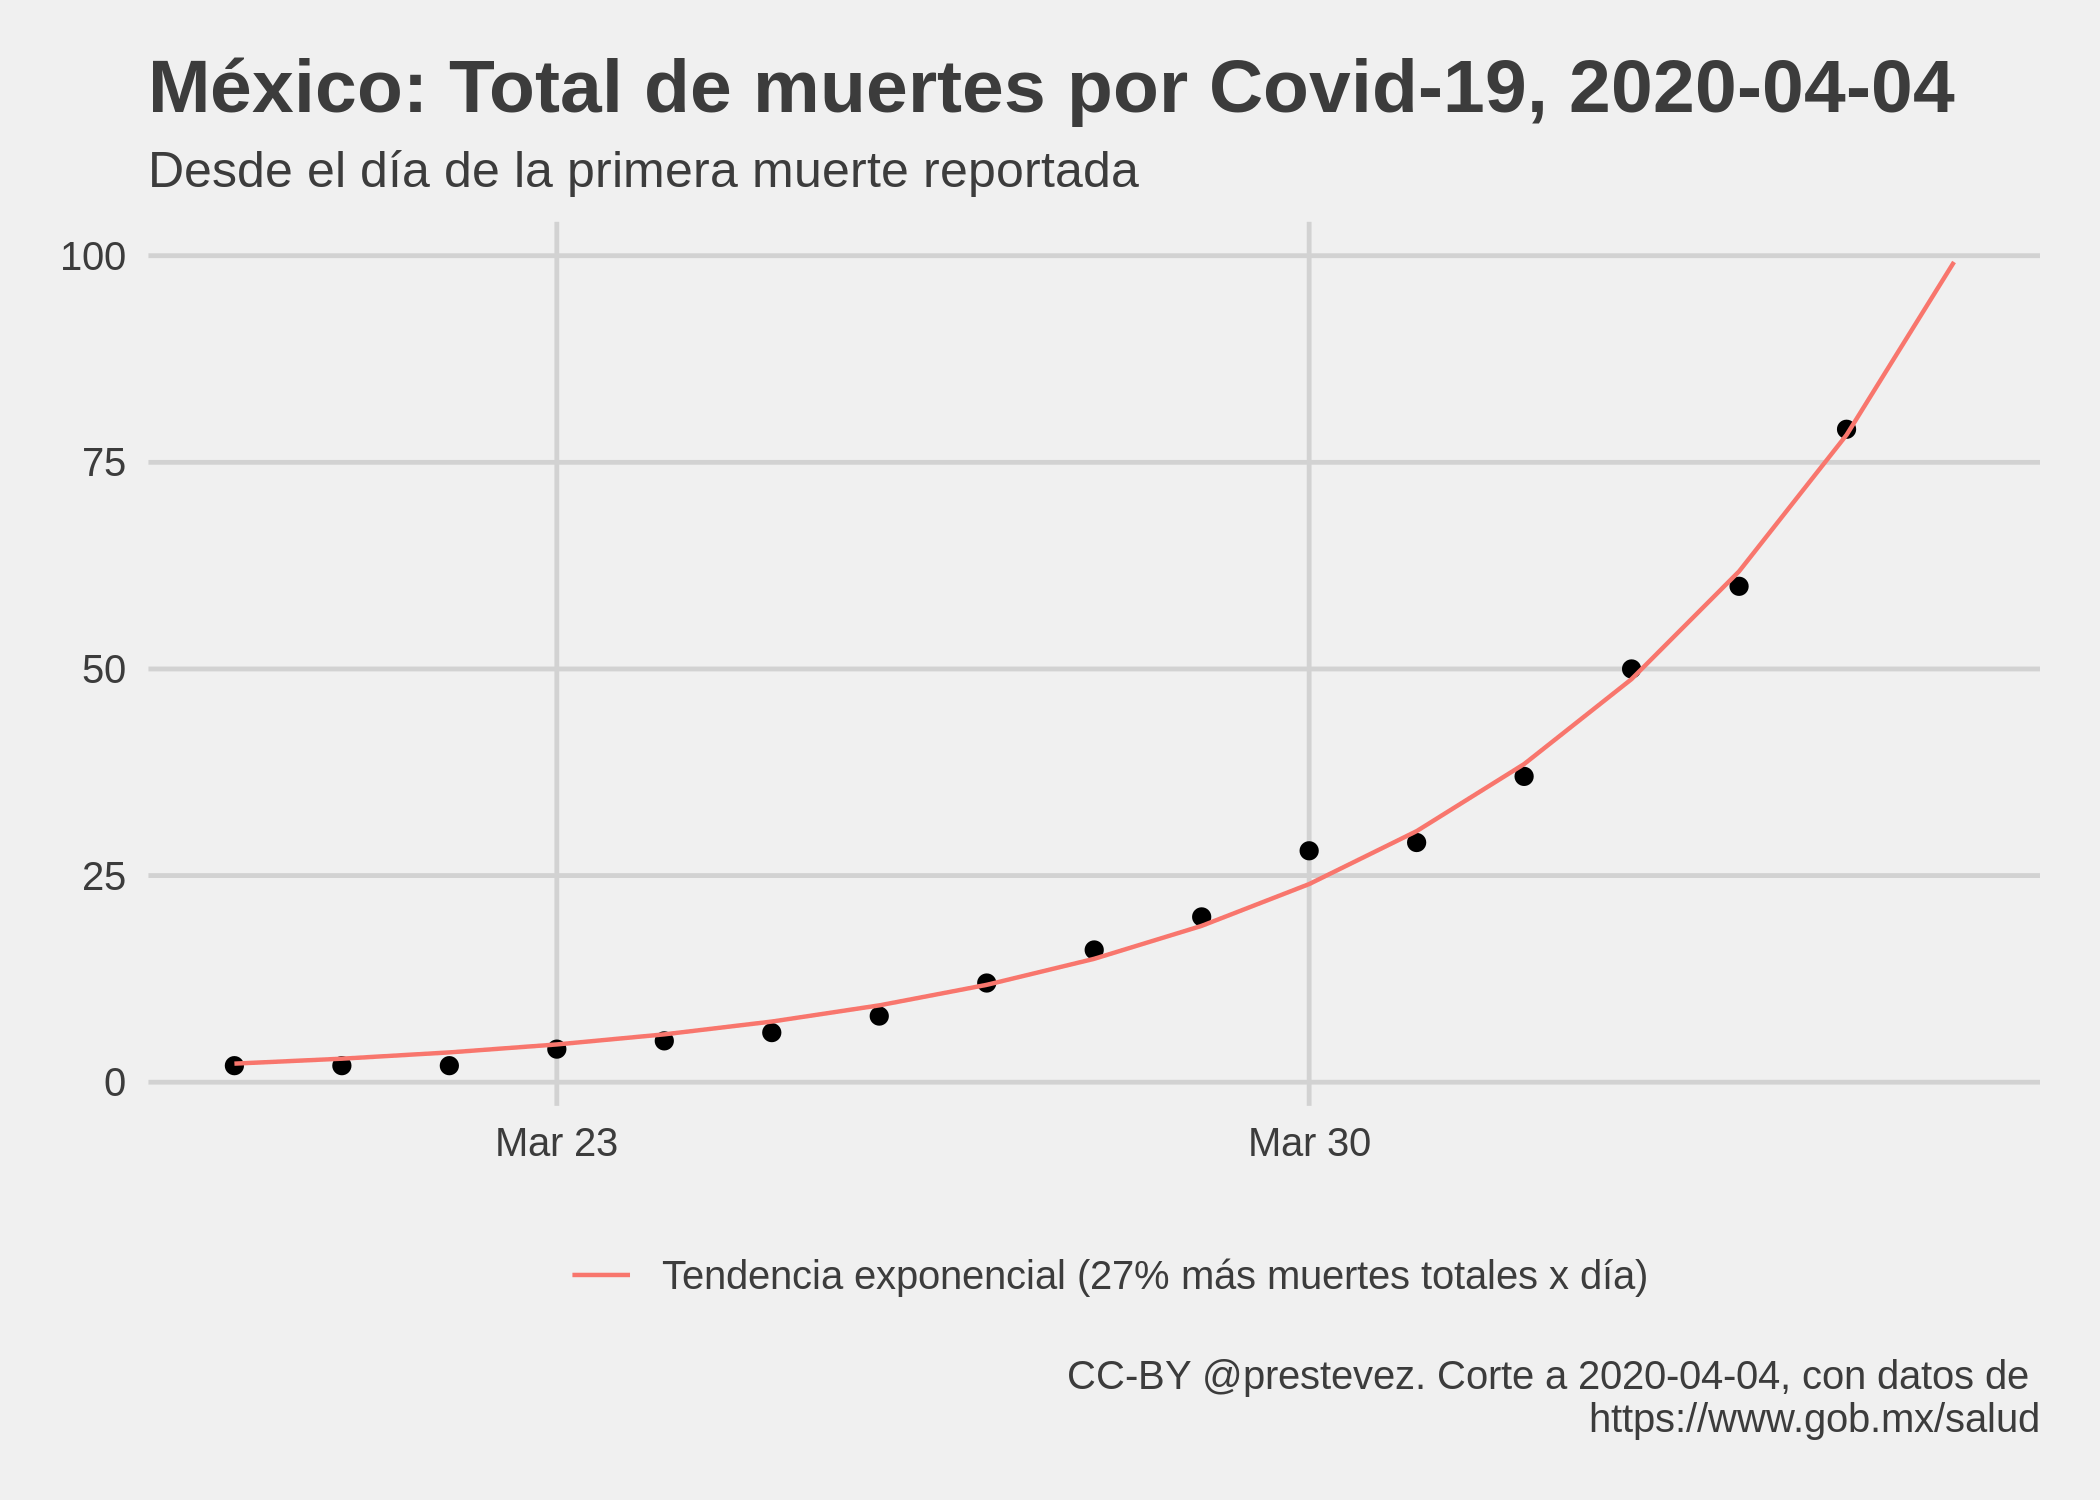
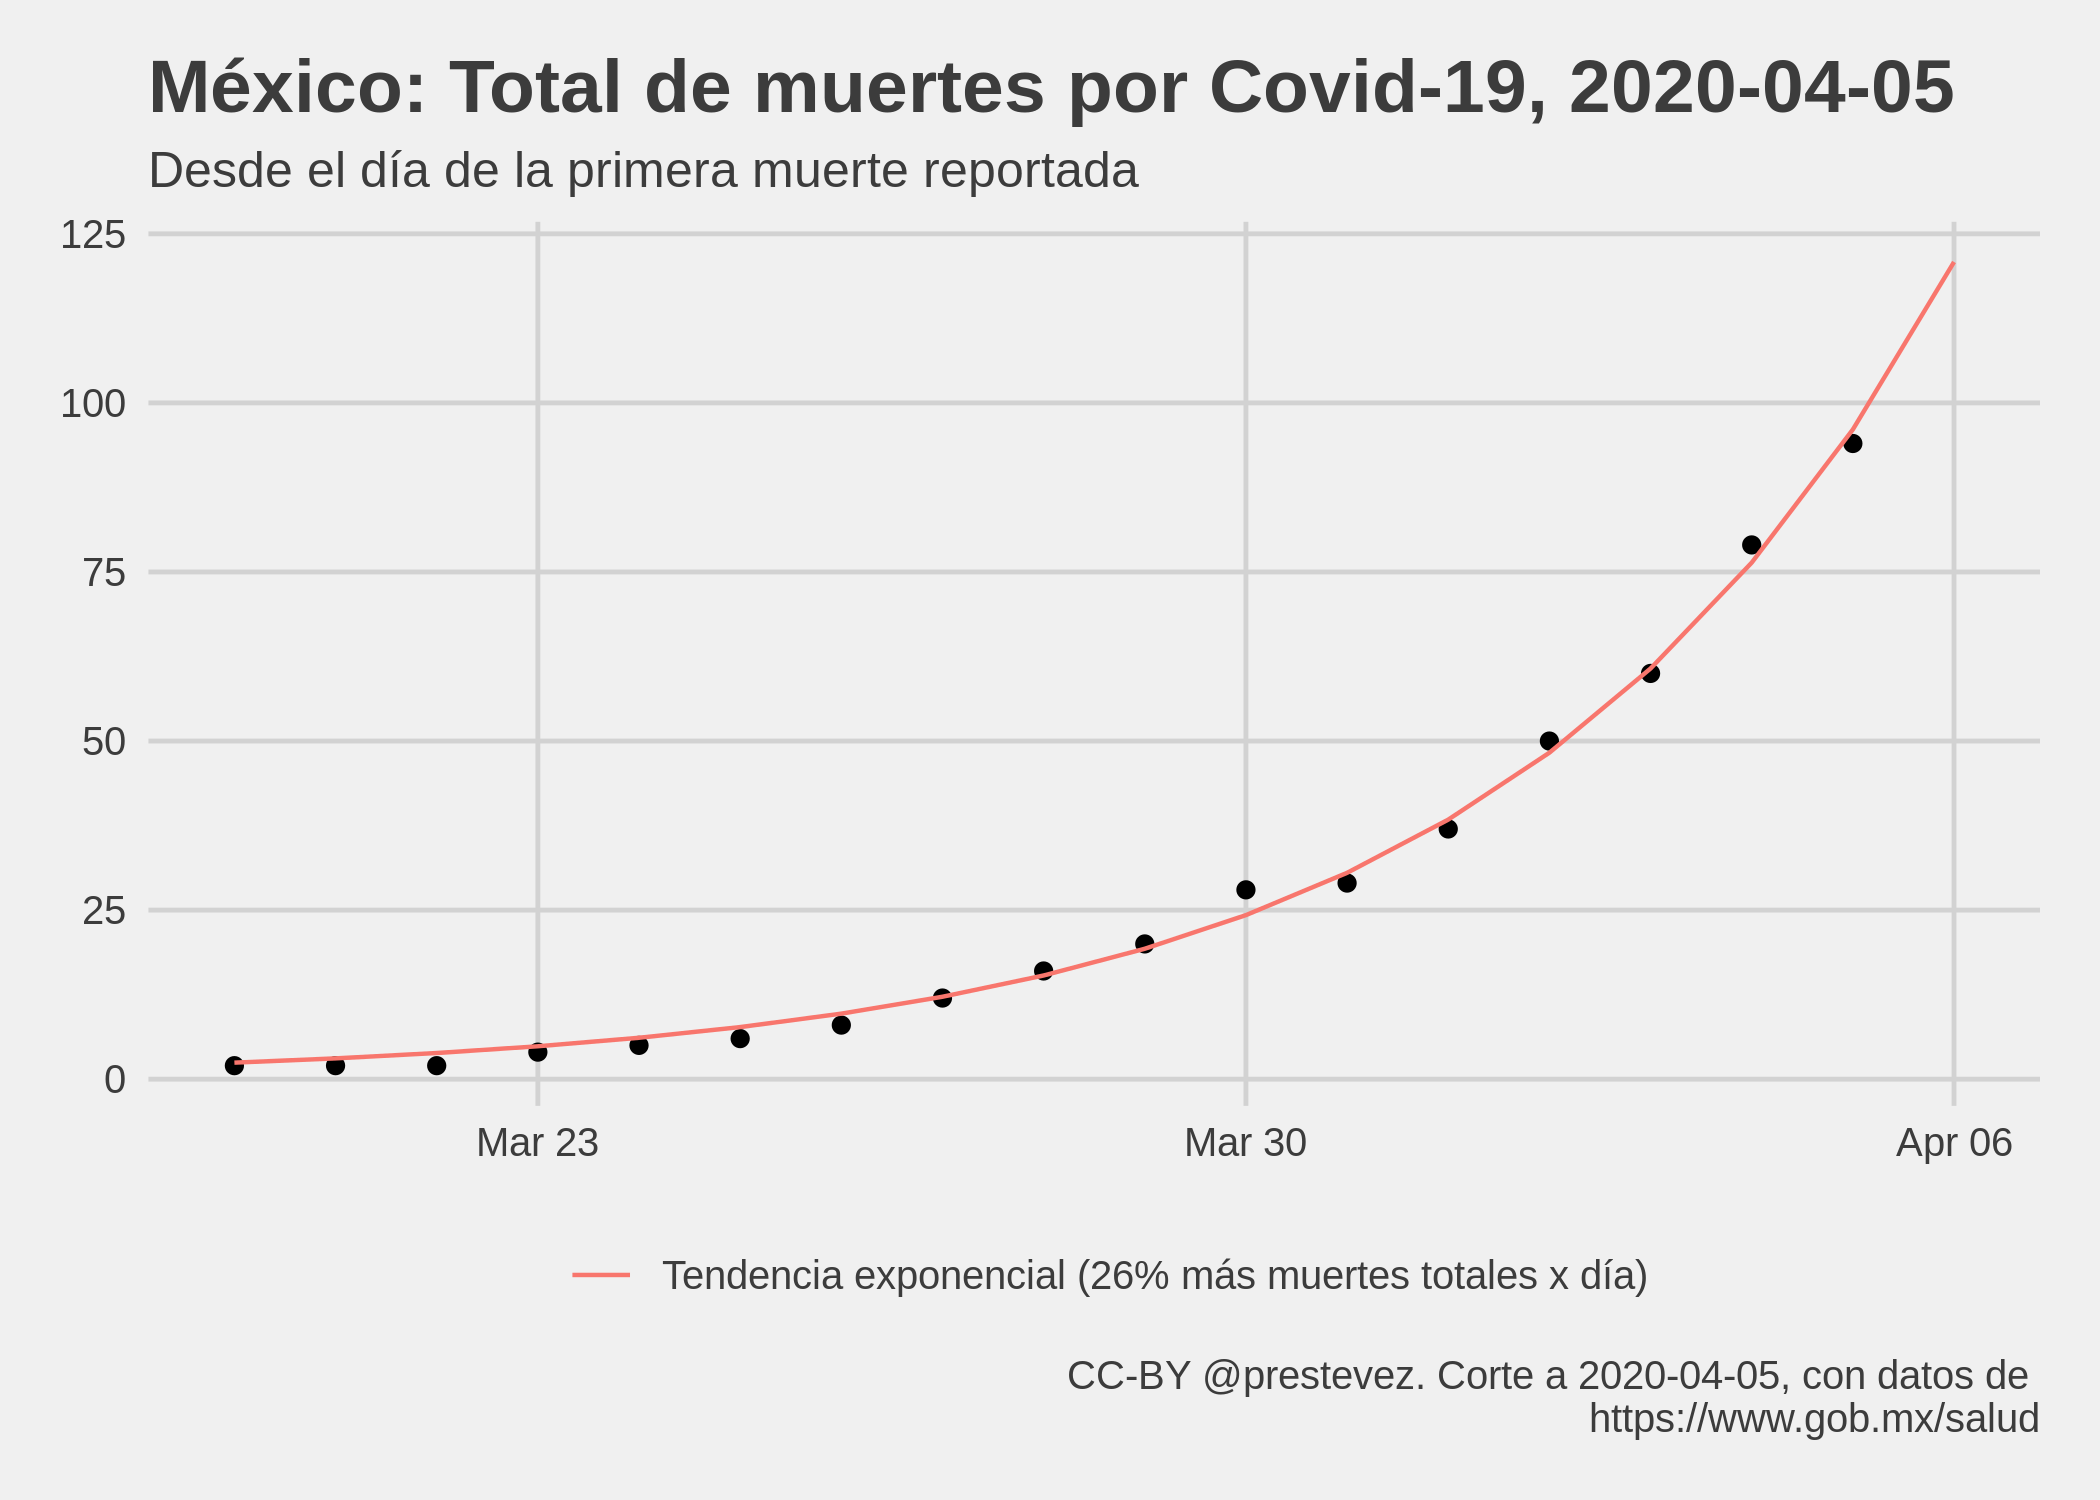
actualizacion 2020-04-05, fin de proyecto

diff --git a/README.md b/README.md
@@ -1,7 +1,7 @@
 Evolución de Covid-19 en México
 ================
 [Patricio R Estevez-Soto](https://twitter.com/prestevez).
-Actualizado: 2020-04-05 21:43:54 GMT
+Actualizado: 2020-04-06 01:06:02 GMT
 
 **Este proyecto no está siendo actualizado**
 
@@ -49,23 +49,23 @@ Parámetros del modelo predictivo:
     ## glm(formula = casos ~ t, family = gaussian("log"), data = casos)
     ## 
     ## Deviance Residuals: 
-    ##     Min       1Q   Median       3Q      Max  
-    ## -114.52   -55.66   -27.50   -10.25   124.59  
+    ##    Min      1Q  Median      3Q     Max  
+    ## -96.33  -62.83  -30.22  -13.25  127.21  
     ## 
     ## Coefficients:
     ##             Estimate Std. Error t value Pr(>|t|)    
-    ## (Intercept)  2.44475    0.13426   18.21   <2e-16 ***
-    ## t            0.13942    0.00394   35.39   <2e-16 ***
+    ## (Intercept) 2.555234   0.124780   20.48   <2e-16 ***
+    ## t           0.135755   0.003566   38.06   <2e-16 ***
     ## ---
     ## Signif. codes:  0 '***' 0.001 '**' 0.01 '*' 0.05 '.' 0.1 ' ' 1
     ## 
-    ## (Dispersion parameter for gaussian family taken to be 3263.71)
+    ## (Dispersion parameter for gaussian family taken to be 3603.66)
     ## 
-    ##     Null deviance: 10861371  on 36  degrees of freedom
-    ## Residual deviance:   114231  on 35  degrees of freedom
-    ## AIC: 408.3
+    ##     Null deviance: 13837387  on 37  degrees of freedom
+    ## Residual deviance:   129726  on 36  degrees of freedom
+    ## AIC: 422.99
     ## 
-    ## Number of Fisher Scoring iterations: 7
+    ## Number of Fisher Scoring iterations: 6
 
 # Estimación de errores Jackknife
 
@@ -100,8 +100,8 @@ Parámetros Jackknife del modelo predictivo de casos:
     ## # A tibble: 2 x 4
     ##   var         Estimate ci_low ci_high
     ##   <chr>          <dbl>  <dbl>   <dbl>
-    ## 1 (Intercept)    2.44   2.38    2.47 
-    ## 2 t              0.139  0.139   0.141
+    ## 1 (Intercept)    2.55   2.50    2.58 
+    ## 2 t              0.136  0.135   0.137
 
 # Modelo de casos nuevos
 
@@ -133,29 +133,29 @@ Parámetros del modelo predictivo de casos nuevos:
     ## glm(formula = casos_nuevos ~ t, family = poisson("log"), data = casos_ext)
     ## 
     ## Deviance Residuals: 
-    ##    Min      1Q  Median      3Q     Max  
-    ## -4.105  -2.413  -1.151   1.043   5.098  
+    ##     Min       1Q   Median       3Q      Max  
+    ## -4.1378  -2.4478  -1.1613   0.9686   5.1583  
     ## 
     ## Coefficients:
     ##             Estimate Std. Error z value Pr(>|z|)    
-    ## (Intercept) 0.527436   0.105204   5.013 5.35e-07 ***
-    ## t           0.133663   0.003391  39.415  < 2e-16 ***
+    ## (Intercept) 0.558654   0.100183   5.576 2.46e-08 ***
+    ## t           0.132376   0.003137  42.199  < 2e-16 ***
     ## ---
     ## Signif. codes:  0 '***' 0.001 '**' 0.01 '*' 0.05 '.' 0.1 ' ' 1
     ## 
     ## (Dispersion parameter for poisson family taken to be 1)
     ## 
-    ##     Null deviance: 2662.24  on 36  degrees of freedom
-    ## Residual deviance:  241.84  on 35  degrees of freedom
-    ## AIC: 398.99
+    ##     Null deviance: 3047.68  on 37  degrees of freedom
+    ## Residual deviance:  242.89  on 36  degrees of freedom
+    ## AIC: 407.41
     ## 
     ## Number of Fisher Scoring iterations: 5
 
     ## # A tibble: 2 x 4
     ##   var         Estimate ci_low ci_high
     ##   <chr>          <dbl>  <dbl>   <dbl>
-    ## 1 (Intercept)    0.526  0.454   0.583
-    ## 2 t              0.134  0.132   0.137
+    ## 1 (Intercept)    0.558  0.493   0.610
+    ## 2 t              0.132  0.131   0.134
 
 # Modelo de acumulado de muertes y de muertes nuevas
 
@@ -179,23 +179,23 @@ si las tendencias a la fecha se mantienen.
 # Casos esperados mañana
 
 Mañana se espera que el **total acumulado de casos confirmados** de
-Covid-19 alcance **2304**, con un intervalo de confianza Jackknife del
-95% entre **2100** y **2531**, si la tendencia observada hasta hoy se
+Covid-19 alcance **2565**, con un intervalo de confianza Jackknife del
+95% entre **2356** y **2794**, si la tendencia observada hasta hoy se
 mantiene igual.
 
-Según el modelo de casos nuevos, mañana se esperan **272 casos
+Según el modelo de casos nuevos, mañana se esperan **305 casos
 confirmados nuevos**, con un intervalo de confianza Jackknife del 95%
-entre **237** y **325**, si la tendencia observada hasta hoy se mantiene
+entre **269** y **348**, si la tendencia observada hasta hoy se mantiene
 igual.
 
 Según el modelo de muertes acumuladas, mañana se espera que el total
-alcance alrededor de **99 muertes**, con un intervalo de confianza
-Jackknife del 95% entre **78** y **126**, si la tendencia observada
+alcance alrededor de **121 muertes**, con un intervalo de confianza
+Jackknife del 95% entre **93** y **161**, si la tendencia observada
 hasta hoy se mantiene igual.
 
-Según el modelo de muertes nuevas, mañana se esperan alrededor de **20
+Según el modelo de muertes nuevas, mañana se esperan alrededor de **22
 muertes nuevas**, con un intervalo de confianza Jackknife del 95% entre
-**7** y **57**, si la tendencia observada hasta hoy se mantiene igual.
+**9** y **54**, si la tendencia observada hasta hoy se mantiene igual.
 
 Sin embargo, estas cifra muy probablemente estén equivocadas, pues los
 modelos usados son extremadamente simples. El objetivo es tener una vaga
@@ -233,6 +233,7 @@ Para el modelo del acumulado de casos:
 | 2020-04-02 |                     1510 |    1716.08 | \-206.08 |
 | 2020-04-03 |                     1688 |    1890.01 | \-202.01 |
 | 2020-04-04 |                     1890 |    2084.83 | \-194.83 |
+| 2020-04-05 |                     2143 |    2304.40 | \-161.40 |
 
 Intervalos de confianza JK
 
@@ -250,6 +251,7 @@ Intervalos de confianza JK
 | 2020-04-02 |           1510           |   1558-1903    |       Sí       |
 | 2020-04-03 |           1688           |   1707-2103    |       Sí       |
 | 2020-04-04 |           1890           |   1892-2300    |       Sí       |
+| 2020-04-05 |           2143           |   2100-2531    |       No       |
 
 Para el modelo de casos nuevos:
 
@@ -269,6 +271,7 @@ Para el modelo de casos nuevos:
 | 2020-04-02 |                     132 |     227.10 | \-95.10 |
 | 2020-04-03 |                     178 |     232.28 | \-54.28 |
 | 2020-04-04 |                     202 |     250.36 | \-48.36 |
+| 2020-04-05 |                     253 |     272.22 | \-19.22 |
 
 Intervalos de confianza JK, casos nuevos.
 
@@ -286,6 +289,7 @@ Intervalos de confianza JK, casos nuevos.
 | 2020-04-02 |           132           |    188-291     |       Sí       |
 | 2020-04-03 |           178           |    195-281     |       Sí       |
 | 2020-04-04 |           202           |    209-318     |       Sí       |
+| 2020-04-05 |           253           |    237-325     |       No       |
 
 Para las muertes por covid-19:
 
@@ -295,6 +299,7 @@ Para las muertes por covid-19:
 | 2020-04-02 |                         50 |      48.76 |   1.24 |
 | 2020-04-03 |                         60 |      62.98 | \-2.98 |
 | 2020-04-04 |                         79 |      77.25 |   1.75 |
+| 2020-04-05 |                         94 |      99.24 | \-5.24 |
 
 Predcciones: acumulado de muertes por covid-19.
 
@@ -304,6 +309,7 @@ Predcciones: acumulado de muertes por covid-19.
 | 2020-04-02 |             50             |     31-80      |       No       |
 | 2020-04-03 |             60             |     47-83      |       No       |
 | 2020-04-04 |             79             |     58-105     |       No       |
+| 2020-04-05 |             94             |     78-126     |       No       |
 
 Intervalos de confianza JK, acumulado de muertes.
 
@@ -315,6 +321,7 @@ Para las muertes nuevas por covid-19:
 | 2020-04-02 |                        13 |       8.30 |   4.70 |
 | 2020-04-03 |                        10 |      12.74 | \-2.74 |
 | 2020-04-04 |                        19 |      14.23 |   4.77 |
+| 2020-04-05 |                        15 |      20.17 | \-5.17 |
 
 Predcciones: Muertes nuuevas por covid-19.
 
@@ -324,13 +331,14 @@ Predcciones: Muertes nuuevas por covid-19.
 | 2020-04-02 |            13             |      1-55      |       No       |
 | 2020-04-03 |            10             |      2-68      |       No       |
 | 2020-04-04 |            19             |      4-46      |       No       |
+| 2020-04-05 |            15             |      7-57      |       No       |
 
 Intervalos de confianza JK, muertes nuevas.
 
 # Discusión
 
 La tendencia exponencial del modelo sugiere que **el número de casos
-confirmados se duplica cada 4.97 días**. Este ritmo es más rápido que
+confirmados se duplica cada 5.11 días**. Este ritmo es más rápido que
 [el observado a nivel
 global](https://ourworldindata.org/coronavirus#growth-of-cases-how-long-did-it-take-for-the-number-of-confirmed-cases-to-double),
 pero es consistente con los ritmos de crecimiento observados durante las
